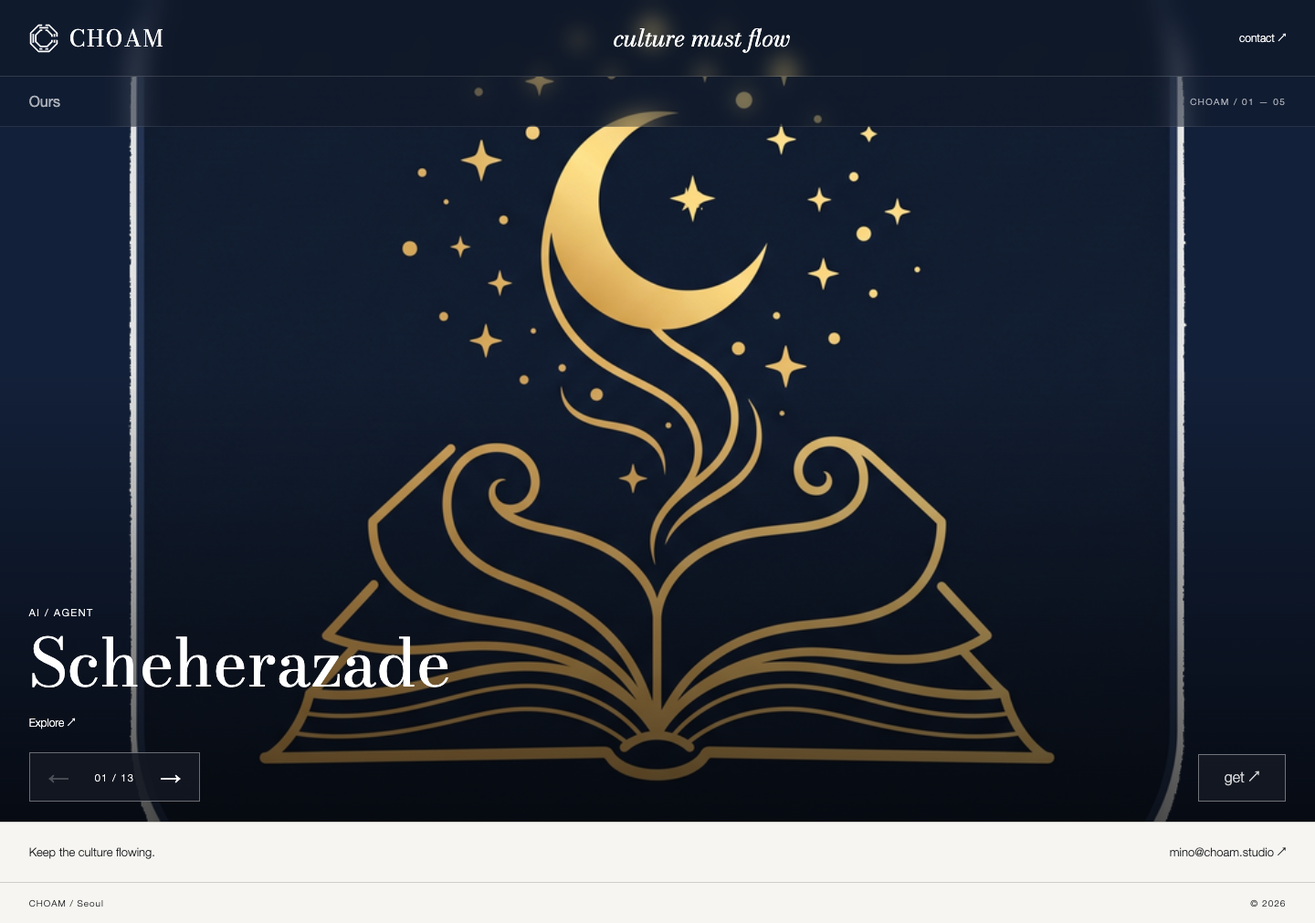
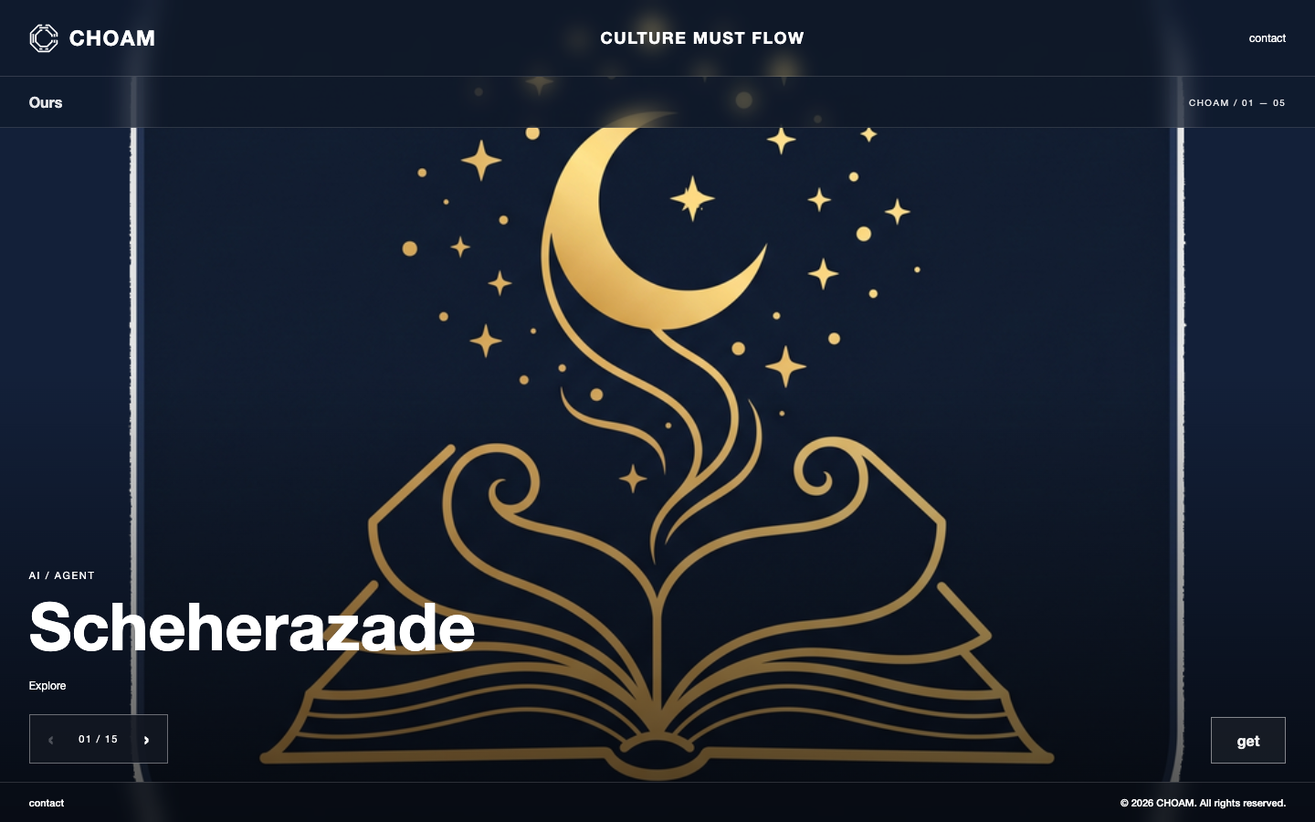
Add Seonjam picks and switch to bold sans with minimal overlay footer

diff --git a/index.html b/index.html
@@ -1,1 +1,1 @@
-<!doctype html><html lang="en"><head><meta charset="utf-8"><meta name="viewport" content="width=device-width,initial-scale=1"><title>CHOAM</title><meta name="description" content="culture must flow"><link rel="icon" href="assets/mark.svg"><link href="https://fonts.googleapis.com/css2?family=Bodoni+Moda:ital,wght@0,400;1,400&display=swap" rel="stylesheet"><link rel="stylesheet" href="style.css"></head><body class="magazine"><header class="bar"><a class="brand" href="./" aria-label="CHOAM home"><img src="assets/mark.svg" alt=""><span>CHOAM</span></a><p>culture must flow</p><a class="index-link" href="#contact">contact ↗</a></header><main id="ours"><section class="gallery" aria-label="Ours"><div class="gallery-heading"><h2>Ours</h2><span class="project-count">CHOAM / 01</span></div><div class="gallery-stage"><div class="track" tabindex="0" aria-label="Ours gallery. Use left and right arrow keys"><article class="panel art scheherazade" data-project="scheherazade"><a class="art-link" href="pages/scheherazade.html" aria-label="Explore Scheherazade"><img src="assets/scheherazade.png" alt="Scheherazade key visual" draggable="false"><div class="art-caption"><p>AI / Agent</p><h3>Scheherazade</h3><span>Explore ↗</span></div></a></article><article class="panel description" data-project="scheherazade"><img class="description-art scheherazade" src="assets/scheherazade.png" alt="" aria-hidden="true"><div class="description-copy"><p class="eyebrow">AI / Agent</p><h3><a href="pages/scheherazade.html">Scheherazade ↗</a></h3><p class="phrase">Agent stands more than 1001 nights</p><p class="placeholder">PLACEHOLDER COPY</p><p class="copy">A companion agent that remembers, keeps a journal, and reaches out. A little continuity for your everyday world.</p><a class="detail-link" href="pages/scheherazade.html">View story ↗</a></div></article><article class="panel art dat" data-project="dat"><a class="art-link" href="pages/dat.html" aria-label="Explore DAT"><span class="dat-mark" aria-hidden="true">DAT</span><div class="art-caption"><p>AI / Generative</p><h3>DAT</h3><span>Explore ↗</span></div></a></article><article class="panel description dat" data-project="dat"><span class="description-art dat-mark" aria-hidden="true">DAT</span><div class="description-copy"><p class="eyebrow">AI / Generative</p><h3><a href="pages/dat.html">DAT ↗</a></h3><p class="phrase">Illustration, in a new register</p><p class="placeholder">PLACEHOLDER COPY</p><p class="copy">A Krea LoRA for illustration generation. Explore a visual language, then make it your own.</p><a class="detail-link" href="pages/dat.html">View story ↗</a></div></article><article class="panel art donguri-ryokan" data-project="donguri-ryokan"><a class="art-link" href="pages/donguri-ryokan.html" aria-label="Explore Donguri Ryokan"><img src="assets/ryokan_kv_C2.webp" alt="Donguri Ryokan key visual" draggable="false"><div class="art-caption"><p>Game / In development</p><h3>Donguri Ryokan</h3><span>Explore ↗</span></div></a></article><article class="panel description" data-project="donguri-ryokan"><img class="description-art donguri-ryokan" src="assets/ryokan_kv_C2.webp" alt="" aria-hidden="true"><div class="description-copy"><p class="eyebrow">Game / In development</p><h3><a href="pages/donguri-ryokan.html">Donguri Ryokan ↗</a></h3><p class="phrase">Stay a little longer</p><p class="placeholder">PLACEHOLDER COPY</p><p class="copy">A quiet inn, unexpected guests, and stories after dark. Make room for another kind of everyday.</p><a class="detail-link" href="pages/donguri-ryokan.html">View story ↗</a></div></article><article class="panel art donguri-restaurant" data-project="donguri-restaurant"><a class="art-link" href="pages/donguri-restaurant.html" aria-label="Explore Donguri Restaurant"><img src="assets/restaurant-01.webp" alt="Donguri Restaurant key visual" draggable="false"><div class="art-caption"><p>Game / Play now</p><h3>Donguri Restaurant</h3><span>Explore ↗</span></div></a></article><article class="panel art donguri-restaurant sequence screenshot" data-project="donguri-restaurant"><a class="art-link" href="pages/donguri-restaurant.html" aria-label="Explore Donguri Restaurant — a table of stories"><img class="screenshot-image" src="assets/restaurant-02.webp" alt="Donguri Restaurant — a table of stories" draggable="false"><span class="sequence-caption">02 / 04 — a table of stories</span></a></article><article class="panel art donguri-restaurant sequence screenshot" data-project="donguri-restaurant"><a class="art-link" href="pages/donguri-restaurant.html" aria-label="Explore Donguri Restaurant — reservation board"><img class="screenshot-image" src="assets/restaurant-03.webp" alt="Donguri Restaurant — reservation board" draggable="false"><span class="sequence-caption">03 / 04 — reservation board</span></a></article><article class="panel art donguri-restaurant sequence screenshot" data-project="donguri-restaurant"><a class="art-link" href="pages/donguri-restaurant.html" aria-label="Explore Donguri Restaurant — course menu / kitchen"><img class="screenshot-image" src="assets/restaurant-04.webp" alt="Donguri Restaurant — course menu / kitchen" draggable="false"><span class="sequence-caption">04 / 04 — course menu / kitchen</span></a></article><article class="panel description" data-project="donguri-restaurant"><img class="description-art donguri-restaurant" src="assets/restaurant-01.webp" alt="" aria-hidden="true"><div class="description-copy"><p class="eyebrow">Game / Play now</p><h3><a href="pages/donguri-restaurant.html">Donguri Restaurant ↗</a></h3><p class="phrase">Something good is on the table</p><p class="placeholder">PLACEHOLDER COPY</p><p class="copy">A small restaurant with a world of appetites. Cook, serve, and find your own rhythm.</p><a class="detail-link" href="pages/donguri-restaurant.html">View story ↗</a></div></article><article class="panel art seonjam" data-project="seonjam"><a class="art-link" href="pages/seonjam.html" aria-label="Explore Seonjam"><img src="assets/seonjam-main.webp" alt="Seonjam key visual" draggable="false"><div class="art-caption"><p>Visual novel / 선잠</p><h3>Seonjam</h3><span>Explore ↗</span></div></a></article><article class="panel description" data-project="seonjam"><img class="description-art seonjam" src="assets/seonjam-main.webp" alt="" aria-hidden="true"><div class="description-copy"><p class="eyebrow">Visual novel / 선잠</p><h3><a href="pages/seonjam.html">Seonjam ↗</a></h3><p class="phrase">Between waking and dreaming</p><p class="placeholder">PLACEHOLDER COPY</p><p class="copy">A visual novel about the moments we almost miss. Meet familiar faces in an unfamiliar light.</p><a class="detail-link" href="pages/seonjam.html">View story ↗</a></div></article></div><div class="gallery-controls"><button class="prev" aria-label="Previous page">←</button><span class="count" aria-live="polite"></span><button class="next" aria-label="Next page">→</button></div><a class="action" hidden></a></div></section></main><section id="contact" class="contact"><span>Keep the culture flowing.</span><a href="mailto:mino@choam.studio">mino@choam.studio ↗</a></section><footer class="foot"><span>CHOAM / Seoul</span><span>© 2026</span></footer><script src="main.js"></script></body></html>
+<!doctype html><html lang="en"><head><meta charset="utf-8"><meta name="viewport" content="width=device-width,initial-scale=1"><title>CHOAM</title><meta name="description" content="CULTURE MUST FLOW"><link rel="icon" href="assets/mark.svg"><link rel="stylesheet" href="style.css"></head><body class="magazine"><header class="bar"><a class="brand" href="./" aria-label="CHOAM home"><img src="assets/mark.svg" alt=""><span>CHOAM</span></a><p>CULTURE MUST FLOW</p><a class="index-link" href="#contact">contact</a></header><main id="ours"><section class="gallery" aria-label="Ours"><div class="gallery-heading"><h2>Ours</h2><span class="project-count">CHOAM / 01</span></div><div class="gallery-stage"><div class="track" tabindex="0" aria-label="Ours gallery. Use left and right arrow keys"><article class="panel art scheherazade" data-project="scheherazade"><a class="art-link" href="pages/scheherazade.html" aria-label="Explore Scheherazade"><img src="assets/scheherazade.png" alt="Scheherazade key visual" draggable="false"><div class="art-caption"><p>AI / Agent</p><h3>Scheherazade</h3><span>Explore</span></div></a></article><article class="panel description" data-project="scheherazade"><img class="description-art scheherazade" src="assets/scheherazade.png" alt="" aria-hidden="true"><div class="description-copy"><p class="eyebrow">AI / Agent</p><h3><a href="pages/scheherazade.html">Scheherazade</a></h3><p class="phrase">Agent stands more than 1001 nights</p><p class="placeholder">PLACEHOLDER COPY</p><p class="copy">A companion agent that remembers, keeps a journal, and reaches out. A little continuity for your everyday world.</p><a class="detail-link" href="pages/scheherazade.html">View story</a></div></article><article class="panel art dat" data-project="dat"><a class="art-link" href="pages/dat.html" aria-label="Explore DAT"><span class="dat-mark" aria-hidden="true">DAT</span><div class="art-caption"><p>AI / Generative</p><h3>DAT</h3><span>Explore</span></div></a></article><article class="panel description dat" data-project="dat"><span class="description-art dat-mark" aria-hidden="true">DAT</span><div class="description-copy"><p class="eyebrow">AI / Generative</p><h3><a href="pages/dat.html">DAT</a></h3><p class="phrase">Illustration, in a new register</p><p class="placeholder">PLACEHOLDER COPY</p><p class="copy">A Krea LoRA for illustration generation. Explore a visual language, then make it your own.</p><a class="detail-link" href="pages/dat.html">View story</a></div></article><article class="panel art donguri-ryokan" data-project="donguri-ryokan"><a class="art-link" href="pages/donguri-ryokan.html" aria-label="Explore Donguri Ryokan"><img src="assets/ryokan_kv_C2.webp" alt="Donguri Ryokan key visual" draggable="false"><div class="art-caption"><p>Game / In development</p><h3>Donguri Ryokan</h3><span>Explore</span></div></a></article><article class="panel description" data-project="donguri-ryokan"><img class="description-art donguri-ryokan" src="assets/ryokan_kv_C2.webp" alt="" aria-hidden="true"><div class="description-copy"><p class="eyebrow">Game / In development</p><h3><a href="pages/donguri-ryokan.html">Donguri Ryokan</a></h3><p class="phrase">Stay a little longer</p><p class="placeholder">PLACEHOLDER COPY</p><p class="copy">A quiet inn, unexpected guests, and stories after dark. Make room for another kind of everyday.</p><a class="detail-link" href="pages/donguri-ryokan.html">View story</a></div></article><article class="panel art donguri-restaurant" data-project="donguri-restaurant"><a class="art-link" href="pages/donguri-restaurant.html" aria-label="Explore Donguri Restaurant"><img src="assets/restaurant-01.webp" alt="Donguri Restaurant key visual" draggable="false"><div class="art-caption"><p>Game / Play now</p><h3>Donguri Restaurant</h3><span>Explore</span></div></a></article><article class="panel art donguri-restaurant sequence screenshot" data-project="donguri-restaurant"><a class="art-link" href="pages/donguri-restaurant.html" aria-label="Explore Donguri Restaurant — a table of stories"><img class="screenshot-image" src="assets/restaurant-02.webp" alt="Donguri Restaurant — a table of stories" draggable="false"><span class="sequence-caption">02 / 04 — a table of stories</span></a></article><article class="panel art donguri-restaurant sequence screenshot" data-project="donguri-restaurant"><a class="art-link" href="pages/donguri-restaurant.html" aria-label="Explore Donguri Restaurant — reservation board"><img class="screenshot-image" src="assets/restaurant-03.webp" alt="Donguri Restaurant — reservation board" draggable="false"><span class="sequence-caption">03 / 04 — reservation board</span></a></article><article class="panel art donguri-restaurant sequence screenshot" data-project="donguri-restaurant"><a class="art-link" href="pages/donguri-restaurant.html" aria-label="Explore Donguri Restaurant — course menu / kitchen"><img class="screenshot-image" src="assets/restaurant-04.webp" alt="Donguri Restaurant — course menu / kitchen" draggable="false"><span class="sequence-caption">04 / 04 — course menu / kitchen</span></a></article><article class="panel description" data-project="donguri-restaurant"><img class="description-art donguri-restaurant" src="assets/restaurant-01.webp" alt="" aria-hidden="true"><div class="description-copy"><p class="eyebrow">Game / Play now</p><h3><a href="pages/donguri-restaurant.html">Donguri Restaurant</a></h3><p class="phrase">Something good is on the table</p><p class="placeholder">PLACEHOLDER COPY</p><p class="copy">A small restaurant with a world of appetites. Cook, serve, and find your own rhythm.</p><a class="detail-link" href="pages/donguri-restaurant.html">View story</a></div></article><article class="panel art seonjam" data-project="seonjam"><a class="art-link" href="pages/seonjam.html" aria-label="Explore Seonjam"><img src="assets/seonjam-01.webp" alt="Seonjam key visual" draggable="false"><div class="art-caption"><p>Visual novel / 선잠</p><h3>Seonjam</h3><span>Explore</span></div></a></article><article class="panel art seonjam sequence" data-project="seonjam"><a class="art-link" href="pages/seonjam.html" aria-label="Explore Seonjam — in-game title"><img src="assets/seonjam-02.webp" alt="Seonjam — in-game title" draggable="false"><span class="sequence-caption">02 / 03 — in-game title</span></a></article><article class="panel art seonjam sequence" data-project="seonjam"><a class="art-link" href="pages/seonjam.html" aria-label="Explore Seonjam — fence / CG"><img src="assets/seonjam-03.webp" alt="Seonjam — fence / CG" draggable="false"><span class="sequence-caption">03 / 03 — fence / CG</span></a></article><article class="panel description" data-project="seonjam"><img class="description-art seonjam" src="assets/seonjam-01.webp" alt="" aria-hidden="true"><div class="description-copy"><p class="eyebrow">Visual novel / 선잠</p><h3><a href="pages/seonjam.html">Seonjam</a></h3><p class="phrase">Between waking and dreaming</p><p class="placeholder">PLACEHOLDER COPY</p><p class="copy">A visual novel about the moments we almost miss. Meet familiar faces in an unfamiliar light.</p><a class="detail-link" href="pages/seonjam.html">View story</a></div></article></div><div class="gallery-controls"><button class="prev" aria-label="Previous page">‹</button><span class="count" aria-live="polite"></span><button class="next" aria-label="Next page">›</button></div><a class="action" hidden></a></div></section></main><footer id="contact" class="foot"><a href="mailto:mino@choam.studio">contact</a><span>© 2026 CHOAM. All rights reserved.</span></footer><script src="main.js"></script></body></html>

diff --git a/style.css b/style.css
@@ -1,4 +1,4 @@
-:root{--pad:clamp(16px,2.2vw,32px);--serif:'Bodoni Moda',Didot,serif;--ink:#17191b;--paper:#f6f5f1}*{box-sizing:border-box}body{margin:0;background:var(--paper);color:var(--ink);font-family:'Helvetica Neue',Arial,sans-serif;font-weight:300}a{color:inherit;text-decoration:none}button{font:inherit}a:focus-visible,button:focus-visible,.track:focus-visible{outline:2px solid #a77d3c;outline-offset:-4px}img{display:block;max-width:100%}.bar{display:flex;align-items:center;justify-content:space-between;gap:16px;padding:24px var(--pad);border-bottom:1px solid #cfcfc9}.brand{display:flex;gap:12px;align-items:center;font-family:var(--serif);font-size:25px;letter-spacing:.06em}.brand img{width:32px;height:32px}.bar p{font-family:var(--serif);font-style:italic;font-size:26px;margin:0}.index-link{font-size:12px}.gallery-heading{display:flex;justify-content:space-between;align-items:center;padding:18px var(--pad);border-bottom:1px solid #cfcfc9}.gallery-heading h2{margin:0;font-size:16px;font-weight:400}.gallery-heading i{font-family:var(--serif);font-size:22px;font-weight:400}.gallery-heading>span{font-size:10px;letter-spacing:.15em}.gallery-stage{position:relative;background:#151c2a;color:#fff}.track{display:flex;overflow-x:auto;scroll-snap-type:x mandatory;scrollbar-width:none;overscroll-behavior-x:contain}.track::-webkit-scrollbar{display:none}.panel{position:relative;flex:0 0 100%;min-width:0;height: min(76svh,850px);min-height:480px;scroll-snap-align:start;scroll-snap-stop:always}.art-link{display:block;width:100%;height:100%;overflow:hidden}.art img{width:100%;height:100%;object-fit:cover}.scheherazade img{object-fit:contain;background:#132039}.art-link:after{content:'';position:absolute;inset:45% 0 0;background:linear-gradient(transparent,#000a);pointer-events:none}.art-caption{position:absolute;left:var(--pad);bottom:100px;z-index:1}.art-caption p,.eyebrow{font-size:11px;letter-spacing:.15em;text-transform:uppercase}.art-caption h3{font-family:var(--serif);font-weight:400;font-size:clamp(42px,5vw,80px);line-height:1.05;margin:12px 0 16px}.art-caption span{font-size:12px}.dat{background:radial-gradient(ellipse at 65% 25%,#30394c,#111722 65%)}.dat-mark{display:grid;place-items:center;height:100%;font-size:clamp(100px,22vw,340px);letter-spacing:-.06em;font-weight:200;color:#b8bdc8}.description{background:var(--paper);color:var(--ink);display:flex;align-items:center;padding:var(--pad);background-image:linear-gradient(90deg,transparent 49.95%,#deded8 50%,transparent 50.05%)}.description-copy{max-width:850px;padding-left:8vw}.description h3,.stub h1{font-family:var(--serif);font-weight:400;font-size:clamp(42px,6vw,88px);line-height:1.05;margin:24px 0}.phrase{font-family:var(--serif);font-style:italic;font-size:clamp(24px,3vw,40px);margin:18px 0}.placeholder{font-size:10px;letter-spacing:.13em;color:#81745c;margin-top:28px}.copy{font-size:17px;line-height:1.65;max-width:540px}.detail-link{display:inline-block;border-bottom:1px solid;margin-top:18px;padding-bottom:6px;font-size:13px}.gallery-controls{position:absolute;left:var(--pad);bottom:22px;display:flex;align-items:center;gap:18px;border:1px solid #ffffff60;background:#131722dd;color:#fff;padding:6px 10px}.gallery-controls button{border:0;background:none;color:inherit;font-size:23px;padding:6px 10px;cursor:pointer}.gallery-controls button:disabled{opacity:.25;cursor:default}.count{font-size:11px;letter-spacing:.12em;min-width:42px;text-align:center}.action{position:absolute;right:var(--pad);bottom:22px;padding:15px 28px;background:#171c26cc;border:1px solid #ffffff80;color:#fff;font-size:16px;opacity:.72;transition:opacity .2s,background .2s}.action[hidden]{display:none}.gallery-stage:hover .action,.action:focus-visible{opacity:1;background:#171c26}.contact,.foot{display:flex;justify-content:space-between;gap:16px;padding:24px var(--pad);font-size:13px}.contact{border-top:1px solid #cfcfc9}.foot{padding-top:16px;padding-bottom:16px;border-top:1px solid #cfcfc9;font-size:10px;letter-spacing:.1em}.stub{padding:50px var(--pad);min-height:75svh}.stub>.eyebrow{margin-top:60px}.stub-images{display:grid;gap:16px;margin-top:40px}.stub-images img{width:100%;max-height:80svh;object-fit:contain;background:#151c2a}.dl{background:#14213d;color:#fff;min-height:calc(100svh - 85px);padding:60px var(--pad)}.ai-txt{max-width:900px;margin:auto}.ai-logo{width:100px}.ai-txt h2{font-family:var(--serif);font-size:clamp(40px,7vw,100px);font-weight:400;margin:24px 0}.dl-btns{display:flex;flex-wrap:wrap;gap:12px;margin-top:36px}.dlbtn{border:1px solid #ffffff90;padding:18px 24px;font-size:22px}.dlbtn small{font-size:12px}.dl-note{font-size:14px;line-height:1.7;margin-top:24px}.dl-note a{text-decoration:underline}@media(max-width:600px){.bar{padding:18px 16px;flex-wrap:wrap;gap:8px}.brand{font-size:20px}.brand img{width:24px;height:24px}.bar p{font-size:19px}.index-link{display:none}.gallery-heading{padding:15px 16px}.gallery-heading>span{font-size:9px}.panel{height:70svh;min-height:500px}.art-caption{bottom:100px}.art-caption h3{font-size:43px;max-width:300px}.donguri-ryokan img{object-position:65% center}.description-copy{padding-left:0;padding-bottom:64px}.description h3{font-size:43px}.phrase{font-size:25px}.copy{font-size:16px}.description{background-image:none}.contact{flex-direction:column;gap:8px}.action{padding:14px 22px}.dlbtn{width:100%}.stub{padding-top:30px}}@media(prefers-reduced-motion:reduce){*{scroll-behavior:auto!important;transition:none!important}}
+:root{--pad:clamp(16px,2.2vw,32px);--serif:'Helvetica Neue',Arial,sans-serif;--ink:#17191b;--paper:#f6f5f1}*{box-sizing:border-box}body{margin:0;background:var(--paper);color:var(--ink);font-family:'Helvetica Neue',Arial,sans-serif;font-weight:300}a{color:inherit;text-decoration:none}button{font:inherit}a:focus-visible,button:focus-visible,.track:focus-visible{outline:2px solid #a77d3c;outline-offset:-4px}img{display:block;max-width:100%}.bar{display:flex;align-items:center;justify-content:space-between;gap:16px;padding:24px var(--pad);border-bottom:1px solid #cfcfc9}.brand{display:flex;gap:12px;align-items:center;font-family:var(--serif);font-size:25px;letter-spacing:.06em}.brand img{width:32px;height:32px}.bar p{font-family:var(--serif);font-style:normal;font-size:26px;margin:0}.index-link{font-size:12px}.gallery-heading{display:flex;justify-content:space-between;align-items:center;padding:18px var(--pad);border-bottom:1px solid #cfcfc9}.gallery-heading h2{margin:0;font-size:16px;font-weight:400}.gallery-heading i{font-family:var(--serif);font-size:22px;font-weight:400}.gallery-heading>span{font-size:10px;letter-spacing:.15em}.gallery-stage{position:relative;background:#151c2a;color:#fff}.track{display:flex;overflow-x:auto;scroll-snap-type:x mandatory;scrollbar-width:none;overscroll-behavior-x:contain}.track::-webkit-scrollbar{display:none}.panel{position:relative;flex:0 0 100%;min-width:0;height: min(76svh,850px);min-height:480px;scroll-snap-align:start;scroll-snap-stop:always}.art-link{display:block;width:100%;height:100%;overflow:hidden}.art img{width:100%;height:100%;object-fit:cover}.scheherazade img{object-fit:contain;background:#132039}.art-link:after{content:'';position:absolute;inset:45% 0 0;background:linear-gradient(transparent,#000a);pointer-events:none}.art-caption{position:absolute;left:var(--pad);bottom:100px;z-index:1}.art-caption p,.eyebrow{font-size:11px;letter-spacing:.15em;text-transform:uppercase}.art-caption h3{font-family:var(--serif);font-weight:400;font-size:clamp(42px,5vw,80px);line-height:1.05;margin:12px 0 16px}.art-caption span{font-size:12px}.dat{background:radial-gradient(ellipse at 65% 25%,#30394c,#111722 65%)}.dat-mark{display:grid;place-items:center;height:100%;font-size:clamp(100px,22vw,340px);letter-spacing:-.06em;font-weight:200;color:#b8bdc8}.description{background:var(--paper);color:var(--ink);display:flex;align-items:center;padding:var(--pad);background-image:linear-gradient(90deg,transparent 49.95%,#deded8 50%,transparent 50.05%)}.description-copy{max-width:850px;padding-left:8vw}.description h3,.stub h1{font-family:var(--serif);font-weight:400;font-size:clamp(42px,6vw,88px);line-height:1.05;margin:24px 0}.phrase{font-family:var(--serif);font-style:normal;font-size:clamp(24px,3vw,40px);margin:18px 0}.placeholder{font-size:10px;letter-spacing:.13em;color:#81745c;margin-top:28px}.copy{font-size:17px;line-height:1.65;max-width:540px}.detail-link{display:inline-block;border-bottom:1px solid;margin-top:18px;padding-bottom:6px;font-size:13px}.gallery-controls{position:absolute;left:var(--pad);bottom:22px;display:flex;align-items:center;gap:18px;border:1px solid #ffffff60;background:#131722dd;color:#fff;padding:6px 10px}.gallery-controls button{border:0;background:none;color:inherit;font-size:23px;padding:6px 10px;cursor:pointer}.gallery-controls button:disabled{opacity:.25;cursor:default}.count{font-size:11px;letter-spacing:.12em;min-width:42px;text-align:center}.action{position:absolute;right:var(--pad);bottom:22px;padding:15px 28px;background:#171c26cc;border:1px solid #ffffff80;color:#fff;font-size:16px;opacity:.72;transition:opacity .2s,background .2s}.action[hidden]{display:none}.gallery-stage:hover .action,.action:focus-visible{opacity:1;background:#171c26}.contact,.foot{display:flex;justify-content:space-between;gap:16px;padding:24px var(--pad);font-size:13px}.contact{border-top:1px solid #cfcfc9}.foot{padding-top:16px;padding-bottom:16px;border-top:1px solid #cfcfc9;font-size:10px;letter-spacing:.1em}.stub{padding:50px var(--pad);min-height:75svh}.stub>.eyebrow{margin-top:60px}.stub-images{display:grid;gap:16px;margin-top:40px}.stub-images img{width:100%;max-height:80svh;object-fit:contain;background:#151c2a}.dl{background:#14213d;color:#fff;min-height:calc(100svh - 85px);padding:60px var(--pad)}.ai-txt{max-width:900px;margin:auto}.ai-logo{width:100px}.ai-txt h2{font-family:var(--serif);font-size:clamp(40px,7vw,100px);font-weight:400;margin:24px 0}.dl-btns{display:flex;flex-wrap:wrap;gap:12px;margin-top:36px}.dlbtn{border:1px solid #ffffff90;padding:18px 24px;font-size:22px}.dlbtn small{font-size:12px}.dl-note{font-size:14px;line-height:1.7;margin-top:24px}.dl-note a{text-decoration:underline}@media(max-width:600px){.bar{padding:18px 16px;flex-wrap:wrap;gap:8px}.brand{font-size:20px}.brand img{width:24px;height:24px}.bar p{font-size:19px}.index-link{display:none}.gallery-heading{padding:15px 16px}.gallery-heading>span{font-size:9px}.panel{height:70svh;min-height:500px}.art-caption{bottom:100px}.art-caption h3{font-size:43px;max-width:300px}.donguri-ryokan img{object-position:65% center}.description-copy{padding-left:0;padding-bottom:64px}.description h3{font-size:43px}.phrase{font-size:25px}.copy{font-size:16px}.description{background-image:none}.contact{flex-direction:column;gap:8px}.action{padding:14px 22px}.dlbtn{width:100%}.stub{padding-top:30px}}@media(prefers-reduced-motion:reduce){*{scroll-behavior:auto!important;transition:none!important}}
 
 /* Artwork remains continuous; labels float rather than occupy a row. */
 .gallery{position:relative}
@@ -43,3 +43,19 @@
 .magazine .description{padding-top:164px}
 .magazine .description[data-project="scheherazade"]{padding-top:164px}
 @media(max-width:600px){.magazine .bar{height:68px}.magazine .gallery-heading{top:68px}.magazine .description,.magazine .description[data-project="scheherazade"]{padding-top:140px}.magazine .description[data-project="scheherazade"] .description-art{top:148px}}
+
+/* Modern grotesk edition. */
+body{font-family:Inter,'Helvetica Neue',Arial,sans-serif;font-weight:400}
+.brand,.bar p,.gallery-heading h2,.art-caption h3,.description h3,.stub h1,.ai-txt h2,.phrase,.sequence-caption,.detail-link,.action,.gallery-controls button,.dlbtn{font-family:inherit;font-style:normal;font-weight:750}
+.bar p{font-size:18px;letter-spacing:.08em;font-weight:800}
+.brand{font-weight:800;font-size:23px}
+.phrase{font-size:clamp(22px,2.2vw,32px)}
+.description[data-project="scheherazade"] h3{font-size:clamp(32px,3.8vw,54px)}
+.description[data-project="scheherazade"] .phrase{font-size:clamp(22px,2vw,30px)}
+.foot{background:rgba(10,14,22,.35);color:#fff;backdrop-filter:blur(12px);-webkit-backdrop-filter:blur(12px);border-top:1px solid #ffffff25;padding:14px var(--pad);font-size:11px;letter-spacing:0;font-weight:500;align-items:center}
+.magazine{position:relative;background:#132039}
+.magazine .foot{position:absolute;bottom:0;left:0;right:0;z-index:5;height:44px}
+.magazine .gallery-controls,.magazine .action{bottom:64px}
+.magazine .sequence-caption,.magazine .screenshot .sequence-caption,.magazine .art-caption{bottom:142px}
+.magazine .description,.magazine .description[data-project="scheherazade"]{padding-bottom:142px}
+@media(max-width:600px){.bar p{font-size:12px;letter-spacing:.08em}.brand{font-size:19px}.art-caption h3{font-size:36px}.description h3,.description[data-project="scheherazade"] h3{font-size:30px}.description .phrase,.description[data-project="scheherazade"] .phrase{font-size:21px}.foot{font-size:10px;gap:10px;white-space:nowrap}.description[data-project="scheherazade"] .description-art{width:110px;height:110px}}

diff --git a/pages/donguri-ryokan.html b/pages/donguri-ryokan.html
@@ -1,1 +1,1 @@
-<!doctype html><html lang="en"><head><meta charset="utf-8"><meta name="viewport" content="width=device-width,initial-scale=1"><title>Donguri Ryokan | CHOAM</title><meta name="description" content="culture must flow"><link rel="icon" href="../assets/mark.svg"><link href="https://fonts.googleapis.com/css2?family=Bodoni+Moda:ital,wght@0,400;1,400&display=swap" rel="stylesheet"><link rel="stylesheet" href="../style.css"></head><body><header class="bar"><a class="brand" href="../" aria-label="CHOAM home"><img src="../assets/mark.svg" alt=""><span>CHOAM</span></a><p>culture must flow</p><a class="index-link" href="../#contact">contact ↗</a></header><main class="stub"><a href="../">← Back to ours</a><p class="eyebrow">Game / In development</p><h1>Donguri Ryokan</h1><p class="phrase">Stay a little longer</p><p class="placeholder">PLACEHOLDER COPY / DETAIL PAGE IN PROGRESS</p><p class="copy">A quiet inn, unexpected guests, and stories after dark. Make room for another kind of everyday.</p><div class="stub-images"><img src="../assets/ryokan_kv_C2.webp" alt="Donguri Ryokan visual" loading="lazy"><img src="../assets/ryokan_kv_B2.webp" alt="Donguri Ryokan visual" loading="lazy"></div></main><footer class="foot"><span>CHOAM / Seoul</span><span>© 2026</span></footer></body></html>
+<!doctype html><html lang="en"><head><meta charset="utf-8"><meta name="viewport" content="width=device-width,initial-scale=1"><title>Donguri Ryokan | CHOAM</title><meta name="description" content="CULTURE MUST FLOW"><link rel="icon" href="../assets/mark.svg"><link rel="stylesheet" href="../style.css"></head><body><header class="bar"><a class="brand" href="../" aria-label="CHOAM home"><img src="../assets/mark.svg" alt=""><span>CHOAM</span></a><p>CULTURE MUST FLOW</p><a class="index-link" href="../#contact">contact</a></header><main class="stub"><a href="../">Back to ours</a><p class="eyebrow">Game / In development</p><h1>Donguri Ryokan</h1><p class="phrase">Stay a little longer</p><p class="placeholder">PLACEHOLDER COPY / DETAIL PAGE IN PROGRESS</p><p class="copy">A quiet inn, unexpected guests, and stories after dark. Make room for another kind of everyday.</p><div class="stub-images"><img src="../assets/ryokan_kv_C2.webp" alt="Donguri Ryokan visual" loading="lazy"><img src="../assets/ryokan_kv_B2.webp" alt="Donguri Ryokan visual" loading="lazy"></div></main><footer id="contact" class="foot"><a href="mailto:mino@choam.studio">contact</a><span>© 2026 CHOAM. All rights reserved.</span></footer></body></html>

diff --git a/pages/donguri-restaurant.html b/pages/donguri-restaurant.html
@@ -1,1 +1,1 @@
-<!doctype html><html lang="en"><head><meta charset="utf-8"><meta name="viewport" content="width=device-width,initial-scale=1"><title>Donguri Restaurant | CHOAM</title><meta name="description" content="culture must flow"><link rel="icon" href="../assets/mark.svg"><link href="https://fonts.googleapis.com/css2?family=Bodoni+Moda:ital,wght@0,400;1,400&display=swap" rel="stylesheet"><link rel="stylesheet" href="../style.css"></head><body><header class="bar"><a class="brand" href="../" aria-label="CHOAM home"><img src="../assets/mark.svg" alt=""><span>CHOAM</span></a><p>culture must flow</p><a class="index-link" href="../#contact">contact ↗</a></header><main class="stub"><a href="../">← Back to ours</a><p class="eyebrow">Game / Play now</p><h1>Donguri Restaurant</h1><p class="phrase">Something good is on the table</p><p class="placeholder">PLACEHOLDER COPY / DETAIL PAGE IN PROGRESS</p><p class="copy">A small restaurant with a world of appetites. Cook, serve, and find your own rhythm.</p><a class="detail-link" href="https://donguri.run">play ↗</a><div class="stub-images"><img src="../assets/restaurant-keyart.png" alt="Donguri Restaurant visual" loading="lazy"></div></main><footer class="foot"><span>CHOAM / Seoul</span><span>© 2026</span></footer></body></html>
+<!doctype html><html lang="en"><head><meta charset="utf-8"><meta name="viewport" content="width=device-width,initial-scale=1"><title>Donguri Restaurant | CHOAM</title><meta name="description" content="CULTURE MUST FLOW"><link rel="icon" href="../assets/mark.svg"><link rel="stylesheet" href="../style.css"></head><body><header class="bar"><a class="brand" href="../" aria-label="CHOAM home"><img src="../assets/mark.svg" alt=""><span>CHOAM</span></a><p>CULTURE MUST FLOW</p><a class="index-link" href="../#contact">contact</a></header><main class="stub"><a href="../">Back to ours</a><p class="eyebrow">Game / Play now</p><h1>Donguri Restaurant</h1><p class="phrase">Something good is on the table</p><p class="placeholder">PLACEHOLDER COPY / DETAIL PAGE IN PROGRESS</p><p class="copy">A small restaurant with a world of appetites. Cook, serve, and find your own rhythm.</p><a class="detail-link" href="https://donguri.run">play</a><div class="stub-images"><img src="../assets/restaurant-keyart.png" alt="Donguri Restaurant visual" loading="lazy"></div></main><footer id="contact" class="foot"><a href="mailto:mino@choam.studio">contact</a><span>© 2026 CHOAM. All rights reserved.</span></footer></body></html>

diff --git a/pages/scheherazade.html b/pages/scheherazade.html
@@ -1,1 +1,1 @@
-<!doctype html><html lang="en"><head><meta charset="utf-8"><meta name="viewport" content="width=device-width,initial-scale=1"><title>Scheherazade | CHOAM</title><meta name="description" content="culture must flow"><link rel="icon" href="../assets/mark.svg"><link href="https://fonts.googleapis.com/css2?family=Bodoni+Moda:ital,wght@0,400;1,400&display=swap" rel="stylesheet"><link rel="stylesheet" href="../style.css"></head><body><header class="bar"><a class="brand" href="../" aria-label="CHOAM home"><img src="../assets/mark.svg" alt=""><span>CHOAM</span></a><p>culture must flow</p><a class="index-link" href="../#contact">contact ↗</a></header><main class="stub"><a href="../">← Back to ours</a><p class="eyebrow">AI / Agent</p><h1>Scheherazade</h1><p class="phrase">Agent stands more than 1001 nights</p><p class="placeholder">PLACEHOLDER COPY / DETAIL PAGE IN PROGRESS</p><p class="copy">A companion agent that remembers, keeps a journal, and reaches out. A little continuity for your everyday world.</p><a class="detail-link" href="../download.html">get ↗</a><div class="stub-images"><img src="../assets/scheherazade.png" alt="Scheherazade visual" loading="lazy"></div></main><footer class="foot"><span>CHOAM / Seoul</span><span>© 2026</span></footer></body></html>
+<!doctype html><html lang="en"><head><meta charset="utf-8"><meta name="viewport" content="width=device-width,initial-scale=1"><title>Scheherazade | CHOAM</title><meta name="description" content="CULTURE MUST FLOW"><link rel="icon" href="../assets/mark.svg"><link rel="stylesheet" href="../style.css"></head><body><header class="bar"><a class="brand" href="../" aria-label="CHOAM home"><img src="../assets/mark.svg" alt=""><span>CHOAM</span></a><p>CULTURE MUST FLOW</p><a class="index-link" href="../#contact">contact</a></header><main class="stub"><a href="../">Back to ours</a><p class="eyebrow">AI / Agent</p><h1>Scheherazade</h1><p class="phrase">Agent stands more than 1001 nights</p><p class="placeholder">PLACEHOLDER COPY / DETAIL PAGE IN PROGRESS</p><p class="copy">A companion agent that remembers, keeps a journal, and reaches out. A little continuity for your everyday world.</p><a class="detail-link" href="../download.html">get</a><div class="stub-images"><img src="../assets/scheherazade.png" alt="Scheherazade visual" loading="lazy"></div></main><footer id="contact" class="foot"><a href="mailto:mino@choam.studio">contact</a><span>© 2026 CHOAM. All rights reserved.</span></footer></body></html>

diff --git a/pages/seonjam.html b/pages/seonjam.html
@@ -1,1 +1,1 @@
-<!doctype html><html lang="en"><head><meta charset="utf-8"><meta name="viewport" content="width=device-width,initial-scale=1"><title>Seonjam | CHOAM</title><meta name="description" content="culture must flow"><link rel="icon" href="../assets/mark.svg"><link href="https://fonts.googleapis.com/css2?family=Bodoni+Moda:ital,wght@0,400;1,400&display=swap" rel="stylesheet"><link rel="stylesheet" href="../style.css"></head><body><header class="bar"><a class="brand" href="../" aria-label="CHOAM home"><img src="../assets/mark.svg" alt=""><span>CHOAM</span></a><p>culture must flow</p><a class="index-link" href="../#contact">contact ↗</a></header><main class="stub"><a href="../">← Back to ours</a><p class="eyebrow">Visual novel / 선잠</p><h1>Seonjam</h1><p class="phrase">Between waking and dreaming</p><p class="placeholder">PLACEHOLDER COPY / DETAIL PAGE IN PROGRESS</p><p class="copy">A visual novel about the moments we almost miss. Meet familiar faces in an unfamiliar light.</p><div class="stub-images"><img src="../assets/seonjam-main.webp" alt="Seonjam visual" loading="lazy"><img src="../assets/seonjam-secondary.webp" alt="Seonjam visual" loading="lazy"></div></main><footer class="foot"><span>CHOAM / Seoul</span><span>© 2026</span></footer></body></html>
+<!doctype html><html lang="en"><head><meta charset="utf-8"><meta name="viewport" content="width=device-width,initial-scale=1"><title>Seonjam | CHOAM</title><meta name="description" content="CULTURE MUST FLOW"><link rel="icon" href="../assets/mark.svg"><link rel="stylesheet" href="../style.css"></head><body><header class="bar"><a class="brand" href="../" aria-label="CHOAM home"><img src="../assets/mark.svg" alt=""><span>CHOAM</span></a><p>CULTURE MUST FLOW</p><a class="index-link" href="../#contact">contact</a></header><main class="stub"><a href="../">Back to ours</a><p class="eyebrow">Visual novel / 선잠</p><h1>Seonjam</h1><p class="phrase">Between waking and dreaming</p><p class="placeholder">PLACEHOLDER COPY / DETAIL PAGE IN PROGRESS</p><p class="copy">A visual novel about the moments we almost miss. Meet familiar faces in an unfamiliar light.</p><div class="stub-images"><img src="../assets/seonjam-01.webp" alt="Seonjam visual" loading="lazy"><img src="../assets/seonjam-03.webp" alt="Seonjam visual" loading="lazy"></div></main><footer id="contact" class="foot"><a href="mailto:mino@choam.studio">contact</a><span>© 2026 CHOAM. All rights reserved.</span></footer></body></html>

diff --git a/download.html b/download.html
@@ -7,13 +7,13 @@
 <meta name="description" content="get scheherazade">
 <meta name="theme-color" content="#14213d">
 <link rel="icon" href="assets/mark.svg">
-<link rel="preconnect" href="https://fonts.googleapis.com">
+
 <link rel="preconnect" href="https://fonts.gstatic.com" crossorigin>
-<link href="https://fonts.googleapis.com/css2?family=Bodoni+Moda:ital,opsz,wght@0,6..96,400;0,6..96,500;1,6..96,400&family=Inter+Tight:wght@200;300;400&display=swap" rel="stylesheet">
+
 <link rel="stylesheet" href="style.css">
 </head>
 <body class="dl-page">
-<header class="bar"><a class="brand" href="./" aria-label="CHOAM home"><img src="assets/mark.svg" alt=""><span>CHOAM</span></a><p>culture must flow</p><a class="index-link" href="#contact">contact ↗</a></header><main class="work ai dl">
+<header class="bar"><a class="brand" href="./" aria-label="CHOAM home"><img src="assets/mark.svg" alt=""><span>CHOAM</span></a><p>CULTURE MUST FLOW</p><a class="index-link" href="#contact">contact</a></header><main class="work ai dl">
   <div class="ai-txt">
     <img class="ai-logo" src="assets/scheherazade.png" alt="Scheherazade" width="1024" height="1024">
     <p class="kind">beta <span id="ver"></span></p>
@@ -24,7 +24,7 @@
       <a class="dlbtn" data-os="win" href="https://github.com/Mino-is-me/scheherazade-releases/releases/latest">windows</a>
       <a class="dlbtn" data-os="linux" href="https://github.com/Mino-is-me/scheherazade-releases/releases/latest">linux <small>appimage</small></a>
     </div>
-    <p class="dl-note">bring your own subscription: claude, chatgpt or ollama. <a href="https://github.com/Mino-is-me/scheherazade-releases/releases/latest" target="_blank" rel="noopener">all releases [ &rarr; ]</a></p>
+    <p class="dl-note">bring your own subscription: claude, chatgpt or ollama. <a href="https://github.com/Mino-is-me/scheherazade-releases/releases/latest" target="_blank" rel="noopener">all releases [ ]</a></p>
   </div>
 </main>
 <script>
@@ -39,5 +39,5 @@ fetch('https://api.github.com/repos/Mino-is-me/scheherazade-releases/releases/la
     if (rel.tag_name) document.getElementById('ver').textContent = '/ ' + rel.tag_name
   }).catch(() => {})
 </script>
-</body>
+<footer id="contact" class="foot"><a href="mailto:mino@choam.studio">contact</a><span>© 2026 CHOAM. All rights reserved.</span></footer></body>
 </html>

diff --git a/pages/dat.html b/pages/dat.html
@@ -1,1 +1,1 @@
-<!doctype html><html lang="en"><head><meta charset="utf-8"><meta name="viewport" content="width=device-width,initial-scale=1"><title>DAT | CHOAM</title><meta name="description" content="culture must flow"><link rel="icon" href="../assets/mark.svg"><link href="https://fonts.googleapis.com/css2?family=Bodoni+Moda:ital,wght@0,400;1,400&display=swap" rel="stylesheet"><link rel="stylesheet" href="../style.css"></head><body><header class="bar"><a class="brand" href="../" aria-label="CHOAM home"><img src="../assets/mark.svg" alt=""><span>CHOAM</span></a><p>culture must flow</p><a class="index-link" href="../#contact">contact ↗</a></header><main class="stub"><a href="../">← Back to ours</a><p class="eyebrow">AI / Generative</p><h1>DAT</h1><p class="phrase">Illustration, in a new register</p><p class="placeholder">PLACEHOLDER COPY / DETAIL PAGE IN PROGRESS</p><p class="copy">A Krea LoRA for illustration generation. Explore a visual language, then make it your own.</p><div class="stub-images"></div></main><footer class="foot"><span>CHOAM / Seoul</span><span>© 2026</span></footer></body></html>
+<!doctype html><html lang="en"><head><meta charset="utf-8"><meta name="viewport" content="width=device-width,initial-scale=1"><title>DAT | CHOAM</title><meta name="description" content="CULTURE MUST FLOW"><link rel="icon" href="../assets/mark.svg"><link rel="stylesheet" href="../style.css"></head><body><header class="bar"><a class="brand" href="../" aria-label="CHOAM home"><img src="../assets/mark.svg" alt=""><span>CHOAM</span></a><p>CULTURE MUST FLOW</p><a class="index-link" href="../#contact">contact</a></header><main class="stub"><a href="../">Back to ours</a><p class="eyebrow">AI / Generative</p><h1>DAT</h1><p class="phrase">Illustration, in a new register</p><p class="placeholder">PLACEHOLDER COPY / DETAIL PAGE IN PROGRESS</p><p class="copy">A Krea LoRA for illustration generation. Explore a visual language, then make it your own.</p><div class="stub-images"></div></main><footer id="contact" class="foot"><a href="mailto:mino@choam.studio">contact</a><span>© 2026 CHOAM. All rights reserved.</span></footer></body></html>

diff --git a/main.js b/main.js
@@ -13,7 +13,7 @@ const galleries = [...document.querySelectorAll('.gallery')].map(gallery => {
     const project = panels[index].dataset.project, target = actions[project];
     gallery.querySelector('.project-count').textContent = `CHOAM / ${String(projects.indexOf(project) + 1).padStart(2, '0')} — ${String(projects.length).padStart(2, '0')}`;
     action.hidden = !target;
-    if (target) { action.textContent = `${target[0]} ↗`; action.href = target[1]; action.setAttribute('aria-label', `${target[0]} ${project}`); }
+    if (target) { action.textContent = target[0]; action.href = target[1]; action.setAttribute('aria-label', `${target[0]} ${project}`); }
     panels.forEach((panel, i) => panel.querySelectorAll('a').forEach(link => { link.tabIndex = i === index ? 0 : -1; }));
   };
   let current = 0;
